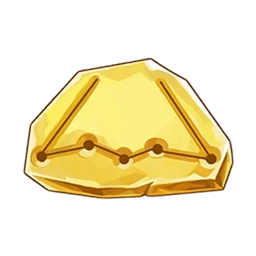
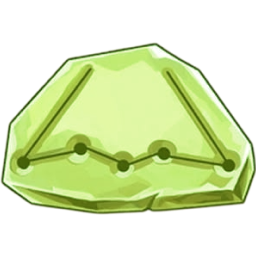
Trésors de la Mine des pionniers, pièces à l'ouverture d'une collection, étoiles à l'upgrade
- Nouvelle répartition des trésors (niveaux 1 à 100) : Monnaies 5–100 (Sou de cuivre), Cartes célestes 10–70,
  Outils 20–80, Pierres de feu 30–100 (Cœur de braise dès 70), Tablette 50–100 sous la pierre
- Un objet peut avoir ses propres niveaux (config : collections > artefacts > objets > niveaux)
- Musée : ouvrir une nouvelle collection donne des pièces (config : economie > primeNouvelleCollection)
- Musée : plus d'étoiles grises ; une étoile n'apparaît qu'en touchant le bouton d'upgrade
- Tutoriel de la 1re visite : ouvrir la collection, puis l'améliorer
- Nouvelles images des Cartes célestes

diff --git a/mine-aux-tresors.html b/mine-aux-tresors.html
@@ -1638,6 +1638,12 @@ body.nav-on #scr-lift{padding-bottom:calc(var(--nav-h) + env(safe-area-inset-bot
 .mu-atelier img{width:calc(var(--u) * 19); height:calc(var(--u) * 15)}
 #scr-museum #museumBody{padding-bottom:calc(var(--u) * 22)}
 
+/* Museum: the star just claimed with the upgrade button pops in */
+.mc-stars svg.pop{animation:starPop .6s cubic-bezier(.3,1.8,.5,1)}
+/* The coins shown on the curtain's « Ouvrir » button */
+.mc-open img{width:1.2em; height:1.2em; margin-left:4px; vertical-align:-.25em; object-fit:contain; animation:none; filter:none}
+@keyframes starPop{0%{transform:scale(0) rotate(-40deg)} 100%{transform:none}}
+@media (prefers-reduced-motion: reduce){ .mc-stars svg.pop{animation:none} }
 </style>
 
 <div class="screen" id="scr-village" hidden>
@@ -2106,8 +2112,8 @@ for (const [kind, group, table] of [['gem', COL.gemmes, GEMS], ['art', COL.artef
       const article = LANG === 'en' ? (/^[aeiou]/i.test(name) ? 'an' : 'a') : look.art || 'un';
       table[k] = { key: k, set: sk, name, rarity: o.rarete, look, art: article, sz: [look.w || 2, look.h || 2],
         w: look.w || 1, h: look.h || 1, soil: set.sol || 'tout',
-        // Levels where it can appear: its own biome, or the series' levels
-        range: o.biome ? [(o.biome - 1) * CFG.biomes.niveauxParBiome + 1, o.biome * CFG.biomes.niveauxParBiome] : set.niveaux || [1, 1000] };
+        // Levels where it can appear: its own levels, else its own biome, else the series' levels
+        range: o.niveaux || (o.biome ? [(o.biome - 1) * CFG.biomes.niveauxParBiome + 1, o.biome * CFG.biomes.niveauxParBiome] : set.niveaux || [1, 1000]) };
     }
   }
 const itemArt = o => o.look.file ? img(TR + o.look.file + '.png', o.name) : phImg(o.look.ph, o.rarity, o.name);
@@ -5418,6 +5424,9 @@ setInterval(villageCoach, 400);
 
 /* ---------- Museum ---------- */
 const museumPrimeWaiting = () => (S.pendingPrimes || []).length > 0;
+let starPop = null;   // the collection whose star was just claimed (it pops in)
+// Coins for opening a new collection: a share of its prime (config.js > economie > primeNouvelleCollection)
+const newSetCoins = sk => Math.max(5, Math.round((SETS[sk].prime || 0) * (CFG.economie.primeNouvelleCollection ?? .5) / 5) * 5);
 document.addEventListener('click', e => {
   const b = e.target.closest('[data-claimset]'); if (!b) return;
   const sk = b.dataset.claimset, list = (S.pendingPrimes || []).filter(p => p.set === sk);
@@ -5426,11 +5435,21 @@ document.addEventListener('click', e => {
   S.coins += due; S.pendingPrimes = S.pendingPrimes.filter(p => p.set !== sk);
   unlockAudio(); sfx('reward'); flyMoney(b.getBoundingClientRect(), due, 0);
   toast(tr('{x} : +{n} pièces !', { x: SETS[sk].name, n: due }), 'good');
-  renderMuseum(); save();
+  starPop = sk; renderMuseum(); starPop = null; save();
 });
 function museumCoach() {
   const claim = () => document.querySelector('#scr-museum [data-claimset]');
-  if (!S.tutoSeen.prime && claim()) startCoach('prime', [{ text: TX.prime, target: claim, done: () => !claim() }]);
+  const open = () => document.querySelector('#scr-museum [data-muopen]');
+  // First visit: open the new collection (the curtain), then upgrade it (its first star)
+  if (!S.tutoSeen.galerie && open()) {
+    // Tied to the collection it starts on (other new collections may wait behind their own curtain)
+    const sk = open().dataset.muopen, its = sel => document.querySelector(`#scr-museum [${sel}="${sk}"]`);
+    startCoach('galerie', [
+      { text: TX.galerie, target: () => its('data-muopen'), done: () => !!(S.muOpened || {})[sk] },
+      { text: TX.ameliorerCollection, target: () => its('data-claimset'), done: () => { const d = !its('data-claimset'); if (d) S.tutoSeen.prime = true; return d; } },
+    ]);
+  }
+  else if (!S.tutoSeen.prime && claim() && !open()) startCoach('prime', [{ text: TX.prime, target: claim, done: () => !claim() }]);
   if (!S.tutoSeen.museeRetour) startCoach('museeRetour', [{ text: TX.museeRetour, target: () => document.querySelector('.nav-tab[data-nav="village"]'), done: () => $('scr-museum').hidden }]);
 }
 // Museum = display shelves: one shelf per collection (found treasures on pedestals, missing ones as silhouettes),
@@ -5569,12 +5588,14 @@ function renderMuseum() {
     const ped = k => `<button class="mc-ped${book[k] ? '' : ' unknown'}" data-muitem="${sk}:${k}" aria-label="${book[k] ? table[k].name : tr('Pas encore trouvé')}">`
       + (book[k] ? `${itemArt(table[k])}<i>${book[k]}</i>` : '<b>?</b>') + '</button>';
     const rows = []; for (let i = 0; i < keys.length; i += 4) rows.push(keys.slice(i, i + 4));
-    const stars = `<div class="mc-stars" aria-label="${tr(plural(tier, '{n} étoile sur {max}', '{n} étoiles sur {max}'), { n: tier, max: MAX_STARS })}">${Array.from({ length: MAX_STARS }, (_, i) => STAR(i < tier)).join('')}</div>`;
     // A star won and its prime not collected yet: the green "upgrade" button on the title bar
     const w = (S.pendingPrimes || []).filter(p => p.set === sk), due = w.reduce((a, p) => a + starPrime(sk, p.tier), 0);
+    // Only the stars already claimed show (no grey ones); a new star appears when the upgrade button is pressed
+    const shown = Math.max(0, tier - w.length), pop = starPop === sk;
+    const stars = shown ? `<div class="mc-stars" aria-label="${tr(plural(shown, '{n} étoile sur {max}', '{n} étoiles sur {max}'), { n: shown, max: MAX_STARS })}">${Array.from({ length: shown }, (_, i) => STAR(true).replace('class="on"', `class="on${pop && i === shown - 1 ? ' pop' : ''}"`)).join('')}</div>` : '';
     const up = w.length ? `<button class="mc-up" data-claimset="${sk}" aria-label="${tr('Récupérer')} +${due}"><svg viewBox="0 0 32 32" aria-hidden="true"><path d="M16 4 L28 16 H21 V28 H11 V16 H4Z" fill="#fff" stroke="#1d1a2b" stroke-width="2.6" stroke-linejoin="round"/></svg></button>` : '';
     // Just discovered: hidden behind a curtain until the player opens it
-    const curtain = (S.muOpened || {})[sk] ? '' : `<div class="mc-curtain"><i class="l"></i><i class="r"></i><b>${tr('Nouvelle collection !')}</b><button class="btn mc-open" data-muopen="${sk}">${tr('Ouvrir')}</button></div>`;
+    const curtain = (S.muOpened || {})[sk] ? '' : `<div class="mc-curtain"><i class="l"></i><i class="r"></i><b>${tr('Nouvelle collection !')}</b><button class="btn mc-open" data-muopen="${sk}">${tr('Ouvrir')} +${newSetCoins(sk)}${COIN}</button></div>`;
     return `<div class="mc-wrap" data-muset="${sk}">${up}<div class="mc"><div class="mc-head"><b>${set.name}</b></div>
       ${rows.map((r, i) => `<div class="mc-row">${i ? '' : stars}<div class="mc-peds">${r.map(ped).join('')}</div></div>`).join('')}</div>${curtain}</div>`;
   };
@@ -5589,7 +5610,11 @@ document.addEventListener('click', e => {
   const b = e.target.closest('[data-muopen]'); if (!b) return;
   const sk = b.dataset.muopen, wrap = b.closest('.mc-wrap');
   unlockAudio(); sfx('reward');
-  (S.muOpened = S.muOpened || {})[sk] = true; save();
+  (S.muOpened = S.muOpened || {})[sk] = true;
+  const coins = newSetCoins(sk); S.coins += coins;
+  flyMoney(b.getBoundingClientRect(), coins, 0);
+  toast(tr('Nouvelle collection : +{n} pièces !', { n: coins }), 'good');
+  save();
   const r = wrap.getBoundingClientRect();
   [0, 150, 300].forEach(t => setTimeout(() => petSparkles(tapFx, r.left + r.width * rand(.2, .8), r.top + r.height * rand(.3, .7)), t));
   wrap.querySelector('.mc-curtain').classList.add('opening');

diff --git a/config.js b/config.js
@@ -311,7 +311,9 @@ window.CONFIG = {
         shop: "Entre dans la Boutique",
         altar: "Entre dans l'Autel de la montagne",
       },
-      prime: "Récupère ta récompense",                // 1re prime de collection au Musée
+      galerie: "Ouvre ta nouvelle collection",        // 1re visite du Musée : le rideau de la collection
+      ameliorerCollection: "Améliore ta collection",  // 1re visite du Musée : le bouton d'upgrade (1re étoile)
+      prime: "Récupère ta récompense",                // 1re prime de collection au Musée (si le tutoriel du rideau est déjà passé)
       museeRetour: "Retourne au village",             // fin de la 1re visite du Musée
       redescendre: "Redescends dans la mine",         // après la 1re visite du Musée
       checkpoints: "Les checkpoints t'évitent de tout refaire",  // 1re fois dans l'ascenseur, avant « Reprends au niveau »
@@ -465,6 +467,10 @@ window.CONFIG = {
     // Prime pour une NOUVELLE découverte (la première fois qu'on trouve ce trésor), selon sa rareté (en pièces)
     primeDecouverte: { common: 10, rare: 25, epic: 50, legendary: 100 },
 
+    // Pièces gagnées en ouvrant une nouvelle collection au Musée (bouton « Ouvrir » du rideau),
+    // en fraction de la prime de la collection (0.5 = la moitié ; arrondi à 5 pièces)
+    primeNouvelleCollection: 0.5,
+
     // ÉTOILES DES COLLECTIONS (au Musée) : une collection complétée 1 fois = 1 étoile, 2 fois = 2 étoiles, etc.
     etoilesSeries: {
       // Nombre maximum d'étoiles. Pour en ajouter, augmente ce nombre ET ajoute une valeur
@@ -528,6 +534,9 @@ window.CONFIG = {
     // "sol" = ce qui recouvre l'artefact : 'terre', 'pierre', 'magma', ou 'tout' (n'importe quoi).
     // Un objet peut avoir son propre "biome" (ex. une pièce ou une clé par biome) :
     // il n'apparaît alors que dans ce biome (biome 1 = niveaux 1 à 100, biome 2 = 101 à 200…).
+    // Un objet peut aussi avoir ses propres "niveaux" (ex. un objet rare qui n'arrive qu'en fin de mine) :
+    // ils passent avant son biome et avant les niveaux de la série.
+    // Mine des pionniers = niveaux 1 à 100.
     // Sols possibles : 'terre', 'pierre', 'pierreDure', 'magma', 'coffre' ou 'tout'.
     // (pierre dure et coffres arrivent avec les biomes 2 et 9 : en attendant, ils sont remplacés
     //  par de la pierre normale / n'importe quelle case.)
@@ -537,19 +546,33 @@ window.CONFIG = {
         feuille:    { nom: 'Feuille fossile',    rarete: 'common' },
         ammonite:   { nom: 'Petite ammonite',    rarete: 'common' },
       } },
-      celestes: { nom: 'Cartes célestes', prime: 50, niveaux: [10, 100], sol: 'tout', objets: {
+      // Une pièce par mine : le Sou de cuivre dans la Mine des pionniers, les autres dans les mines suivantes
+      monnaies: { nom: 'Monnaies du royaume perdu', prime: 200, sol: 'tout', objets: {
+        sou:     { nom: 'Sou de cuivre',     rarete: 'common', niveaux: [5, 100] },
+        denier:  { nom: "Denier d'argent",   rarete: 'common', biome: 2 },
+        ecu:     { nom: 'Écu de bronze',     rarete: 'common', biome: 3 },
+        ducat:   { nom: "Ducat d'or",        rarete: 'common', biome: 4 },
+        florin:  { nom: 'Florin de platine', rarete: 'common', biome: 5 },
+        pieceDuRoi: { nom: 'Pièce du roi',   rarete: 'epic',   biome: 6 },
+      } },
+      celestes: { nom: 'Cartes célestes', prime: 50, niveaux: [10, 70], sol: 'tout', objets: {
         lion:     { nom: 'Plaque du Lion',     rarete: 'common' },
         taureau:  { nom: 'Plaque du Taureau',  rarete: 'common' },
         scorpion: { nom: 'Plaque du Scorpion', rarete: 'common' },
         dragon:   { nom: 'Plaque du Dragon',   rarete: 'rare' },
       } },
-      outils: { nom: 'Outils du mineur oublié', prime: 100, niveaux: [16, 100], sol: 'pierre', objets: {
+      outils: { nom: 'Outils du mineur oublié', prime: 100, niveaux: [20, 80], sol: 'pierre', objets: {
         lampe:   { nom: 'Lampe rouillée',          rarete: 'common' },
         gourde:  { nom: 'Vieille gourde',          rarete: 'common' },
         casque:  { nom: 'Casque cabossé',          rarete: 'common' },
         pioche:  { nom: 'Pioche du premier mineur', rarete: 'rare' },
       } },
-      tablette: { nom: 'Tablette ancienne', prime: 100, niveaux: [101, 200], sol: 'pierreDure',
+      feu: { nom: 'Pierres de feu', prime: 200, niveaux: [30, 100], sol: 'magma', objets: {
+        obsidienne:   { nom: 'Obsidienne',     rarete: 'common' },
+        pierreDeLave: { nom: 'Pierre de lave', rarete: 'common' },
+        coeurDeBraise: { nom: 'Cœur de braise', rarete: 'epic', niveaux: [70, 100] },
+      } },
+      tablette: { nom: 'Tablette ancienne', prime: 100, niveaux: [50, 100], sol: 'pierre',
         // Texte affiché quand la tablette est complète
         legende: "« Sous la montagne dort le trésor du Roi Mineur. Cinq clés, cachées de plus en plus profond, ouvrent son coffre. »",
         objets: {
@@ -557,25 +580,14 @@ window.CONFIG = {
           fragmentCentral: { nom: 'Fragment central', rarete: 'common' },
           fragmentDroit:   { nom: 'Fragment droit',   rarete: 'common' },
         } },
-      feu: { nom: 'Pierres de feu', prime: 200, niveaux: [301, 400], sol: 'magma', objets: {
-        obsidienne:   { nom: 'Obsidienne',     rarete: 'common' },
-        pierreDeLave: { nom: 'Pierre de lave', rarete: 'common' },
-        coeurDeBraise: { nom: 'Cœur de braise', rarete: 'epic' },
-      } },
+
       abysses: { nom: 'Trésors des abysses', prime: 200, niveaux: [701, 800], sol: 'tout', objets: {
         corail:     { nom: 'Corail pétrifié', rarete: 'common' },
         conque:     { nom: 'Conque abyssale', rarete: 'common' },
         perleNoire: { nom: 'Perle noire',     rarete: 'epic' },
       } },
       // Une pièce par biome, du biome 1 au biome 6
-      monnaies: { nom: 'Monnaies du royaume perdu', prime: 200, sol: 'tout', objets: {
-        sou:     { nom: 'Sou de cuivre',     rarete: 'common', biome: 1 },
-        denier:  { nom: "Denier d'argent",   rarete: 'common', biome: 2 },
-        ecu:     { nom: 'Écu de bronze',     rarete: 'common', biome: 3 },
-        ducat:   { nom: "Ducat d'or",        rarete: 'common', biome: 4 },
-        florin:  { nom: 'Florin de platine', rarete: 'common', biome: 5 },
-        pieceDuRoi: { nom: 'Pièce du roi',   rarete: 'epic',   biome: 6 },
-      } },
+
       reliques: { nom: 'Reliques ornées', prime: 400, niveaux: [801, 900], sol: 'coffre', objets: {
         calice:  { nom: 'Calice orné',          rarete: 'epic' },
         masque:  { nom: "Masque d'or",          rarete: 'epic' },

diff --git a/textes-en.js b/textes-en.js
@@ -856,4 +856,7 @@ window.TEXTES_EN = {
   "+{v} de pièces par tas (sans limite d'étoiles)": "+{v} coins per pile (no star limit)",
   "Ouvre tes géodes pour trouver des pierres précieuses.": "Open your geodes to find gemstones.",
   "{a} / {b} aujourd'hui": "{a} / {b} today",
+  "Nouvelle collection : +{n} pièces !": "New collection: +{n} coins!",
+  "Ouvre ta nouvelle collection": "Open your new collection",
+  "Améliore ta collection": "Upgrade your collection",
 };
